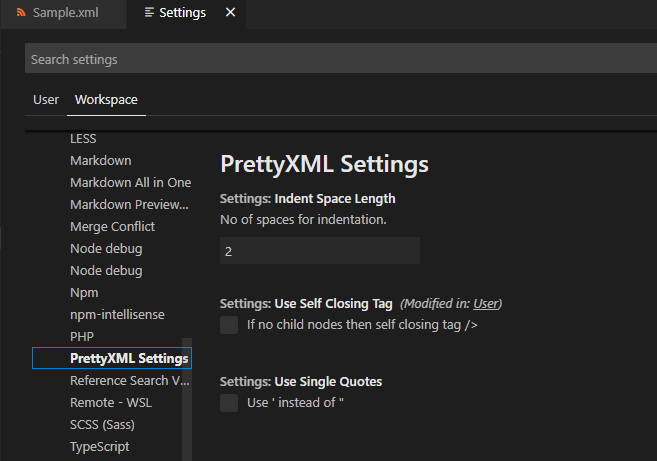
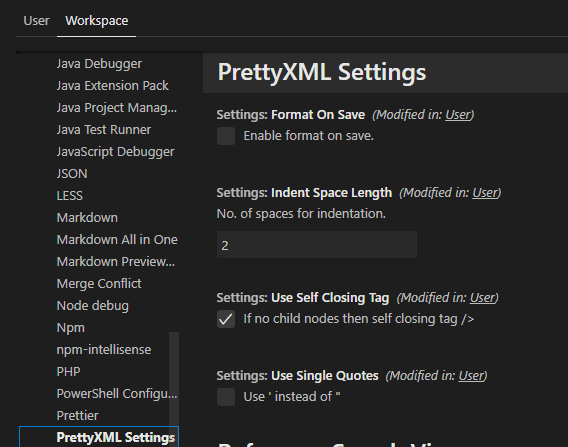
readme changelog updated

diff --git a/README.md b/README.md
@@ -25,7 +25,7 @@ Suggestions , improvement PRs are welcome.
 
 1. ### Prettify XML (XML Formatting)
 
-   Right Click and Select Prettify XML.
+   Right Click and Select Prettify XML or use [shortcut](#keyboard-shortcuts)
 
    - First attribute on same line as start tag.
    - All attributes indented in line with first attribute.
@@ -68,6 +68,7 @@ These will be for **Prettify XML** command.
 | prettyxml.settings.indentSpaceLength | 2             | No. of spaces for indentation.             |
 | prettyxml.settings.useSingleQuotes   | false         | Use ' instead of \"                        |
 | prettyxml.settings.useSelfClosingTag | true          | If no child nodes then self closing tag /> |
+| prettyxml.settings.formatOnSave      | false         | Enable format on save                      |
 
 ![Settings Image](./images/settings.png)
 
@@ -98,6 +99,3 @@ See [Change Log](./CHANGELOG.md)
 
 - [Source Code](https://github.com/pmahend1/prettyxml)
 
-**Support me on Buy me a coffee!**
-
-[<img src="https://cdn.buymeacoffee.com/buttons/v2/default-blue.png" width='150' height='40'>](https://www.buymeacoffee.com/pmahend1)

diff --git a/CHANGELOG.md b/CHANGELOG.md
@@ -2,6 +2,10 @@
 
 ## Preview
 
+### 0.6.0
+
+- New Feature **Format On Save** added.
+
 ### 0.5.4
 
 - Yarn upgrade.
